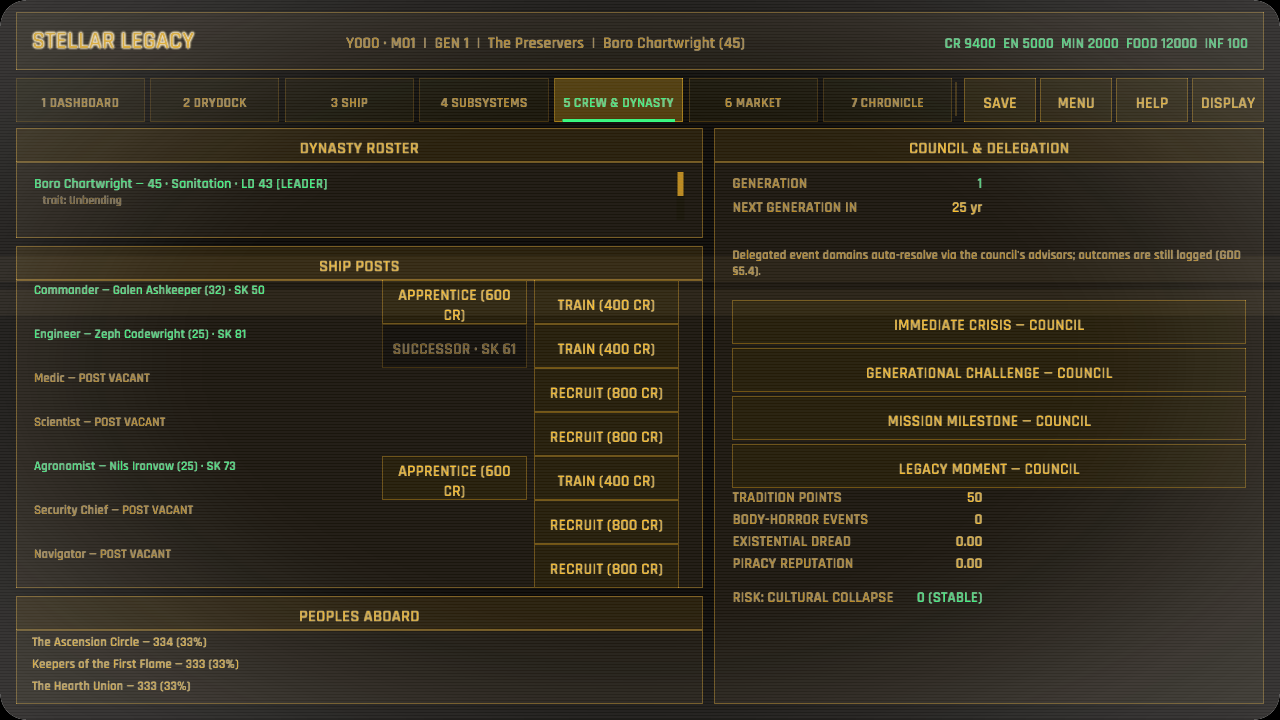
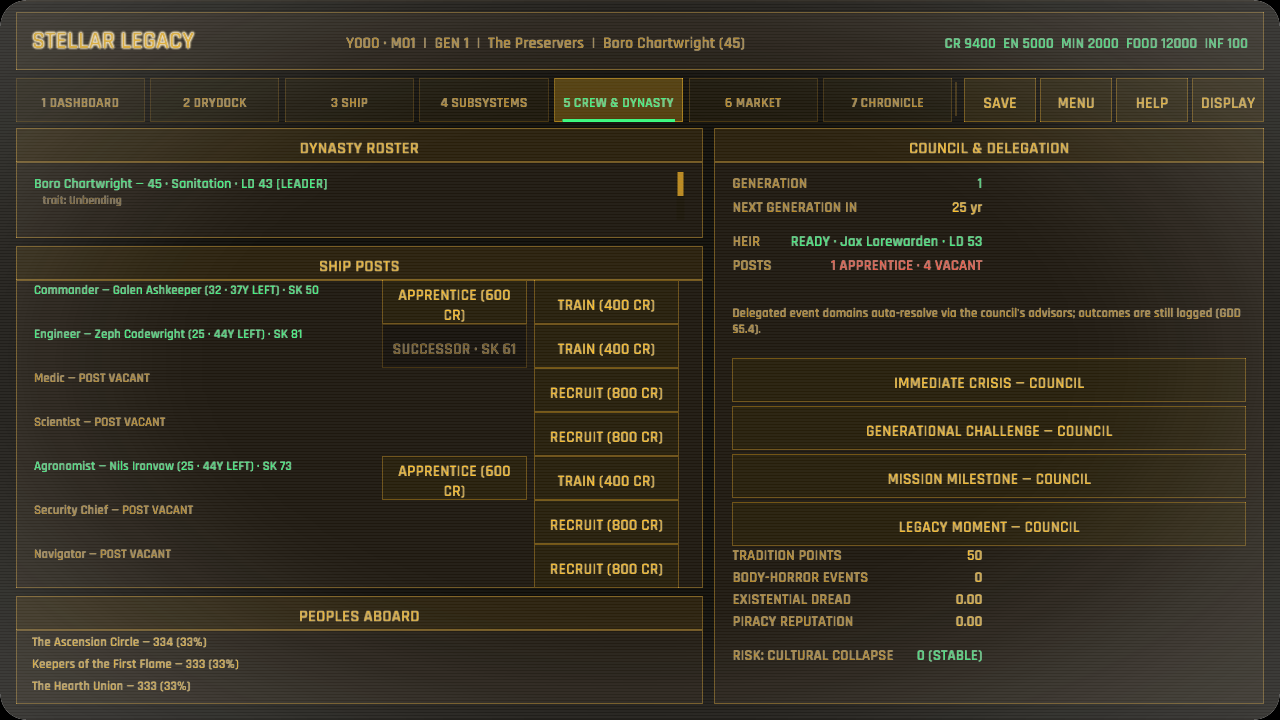
The chair passes to the heir named before it empties (succession and crew continuity)
Crew continuity was reactive: officer terms showed only age, the council did not name its next captain, and the handoff implementation cleared every leader flag before selecting a candidate, allowing a retiring captain to rank as their own successor. Succession planning now resolves while the outgoing captain is still identifiable and is shared by the council forecast and handoff. The crew screen reports the ready or designated heir, apprentices, vacancies, and years left in each held post. Regression tests cover designation, ineligible designates, best eligible selection, and the no-self-succession invariant; the crew capture was refreshed.

diff --git a/src/ui/crew_dynasty.rs b/src/ui/crew_dynasty.rs
@@ -4,6 +4,7 @@
 use crate::data::events::EventCategory;
 use crate::simulation::crew::post_holder;
 use crate::simulation::legacy::failure_risk;
+use crate::simulation::succession::planned_heir;
 use crate::ui::{stat_line, term, term_button, term_panel, GameplayCtx, UiAction};
 use macroquad::prelude::*;
 use macroquad_toolkit::prelude::*;
@@ -238,14 +239,26 @@ fn draw_posts(ctx: &GameplayCtx<'_>, rect: Rect, pointer: Pointer, actions: &mut
     for archetype in &ctx.data.crew_archetypes {
         match post_holder(ctx.sim, &archetype.id) {
             Some(holder) => {
+                let years_left = crew_cfg
+                    .retirement_age
+                    .saturating_sub(holder.age)
+                    .saturating_add(1);
                 draw_ui_text_ex(
                     &format!(
-                        "{} — {} ({}) · SK {}",
-                        archetype.name, holder.name, holder.age, holder.skill
+                        "{} — {} ({} · {}Y LEFT) · SK {}",
+                        archetype.name, holder.name, holder.age, years_left, holder.skill
                     ),
                     content.x,
                     y,
-                    TextStyle::new(13.0, term::accent()).params(),
+                    TextStyle::new(
+                        13.0,
+                        if years_left <= 5 {
+                            term::alert()
+                        } else {
+                            term::accent()
+                        },
+                    )
+                    .params(),
                 );
                 let maxed = holder.skill >= archetype.skill_max;
                 let apprentice = ctx
@@ -323,6 +336,54 @@ fn draw_council(ctx: &GameplayCtx<'_>, rect: Rect, pointer: Pointer, actions: &m
         "NEXT GENERATION IN",
         &format!("{next_gen} yr"),
         term::primary(),
+    );
+    y += 34.0;
+
+    let planned = planned_heir(&ctx.sim.dynasty, &ctx.data.config);
+    let succession = planned.map_or_else(
+        || "NO ELIGIBLE HEIR".to_owned(),
+        |member| {
+            if ctx.sim.dynasty.designated_heir == Some(member.id) {
+                format!("DESIGNATED · {} · LD {}", member.name, member.leadership)
+            } else {
+                format!("READY · {} · LD {}", member.name, member.leadership)
+            }
+        },
+    );
+    stat_line(
+        content.x,
+        y,
+        "HEIR",
+        &succession,
+        if planned.is_some() {
+            term::accent()
+        } else {
+            term::alert()
+        },
+    );
+    y += 24.0;
+    let vacant_posts = ctx
+        .data
+        .crew_archetypes
+        .iter()
+        .filter(|post| post_holder(ctx.sim, &post.id).is_none())
+        .count();
+    let apprentices = ctx.sim.apprenticeships.len();
+    let apprentice_label = if apprentices == 1 {
+        "1 APPRENTICE".to_owned()
+    } else {
+        format!("{apprentices} APPRENTICES")
+    };
+    stat_line(
+        content.x,
+        y,
+        "POSTS",
+        &format!("{apprentice_label} · {vacant_posts} VACANT",),
+        if vacant_posts > 0 {
+            term::alert()
+        } else {
+            term::primary()
+        },
     );
     y += 34.0;
 

diff --git a/src/simulation/succession.rs b/src/simulation/succession.rs
@@ -18,6 +18,30 @@ pub fn eligible_heir_exists(dynasty: &Dynasty, config: &GameConfig) -> bool {
         .any(|m| !m.is_leader && m.age >= config.heir_min_age && m.age <= config.heir_max_age)
 }
 
+/// The heir who would take the chair under an orderly handoff: the eligible
+/// council designate first, otherwise the strongest eligible dynast. This is
+/// the same plan `install_successor` follows before its emergency fallback.
+pub fn planned_heir<'a>(dynasty: &'a Dynasty, config: &GameConfig) -> Option<&'a DynastyMember> {
+    let eligible = |member: &&DynastyMember| {
+        !member.is_leader && member.age >= config.heir_min_age && member.age <= config.heir_max_age
+    };
+    dynasty
+        .designated_heir
+        .and_then(|id| {
+            dynasty
+                .members
+                .iter()
+                .find(|member| member.id == id && eligible(member))
+        })
+        .or_else(|| {
+            dynasty
+                .members
+                .iter()
+                .filter(eligible)
+                .max_by_key(|member| (member.leadership, member.id))
+        })
+}
+
 /// Install a new leader (GDD §4 Select Heir): clear the current leader, then take
 /// the council-designated heir if one is living and age-eligible, otherwise the
 /// highest-leadership member in the ideal heir band, and failing that the best of
@@ -30,6 +54,7 @@ pub fn install_successor(
     config: &GameConfig,
     year: u32,
 ) -> (Option<String>, bool) {
+    let planned_id = planned_heir(dynasty, config).map(|member| member.id);
     // A handoff starts a new reign (content-depth campaign skeleton round 19).
     dynasty.leader_reign_years = 0;
     // Close the outgoing captaincy before the seat is cleared — after the loop
@@ -39,16 +64,6 @@ pub fn install_successor(
     for member in &mut dynasty.members {
         member.is_leader = false;
     }
-    let eligible = |m: &DynastyMember| m.age >= config.heir_min_age && m.age <= config.heir_max_age;
-    let best_in_band = || {
-        dynasty
-            .members
-            .iter()
-            .enumerate()
-            .filter(|(_, m)| eligible(m))
-            .max_by_key(|(_, m)| m.leadership)
-            .map(|(i, _)| i)
-    };
     // Fallback when no one sits in the ideal band: the strongest survivor still
     // leads — an unusually young or old captain, but a captain. Ties break on id
     // so a given roster is deterministic.
@@ -60,15 +75,8 @@ pub fn install_successor(
             .max_by_key(|(_, m)| (m.leadership, m.id))
             .map(|(i, _)| i)
     };
-    let heir_index = dynasty
-        .designated_heir
-        .and_then(|id| {
-            dynasty
-                .members
-                .iter()
-                .position(|m| m.id == id && eligible(m))
-        })
-        .or_else(best_in_band)
+    let heir_index = planned_id
+        .and_then(|id| dynasty.members.iter().position(|member| member.id == id))
         .or_else(best_any);
     dynasty.designated_heir = None;
     match heir_index {

diff --git a/src/simulation/succession/tests.rs b/src/simulation/succession/tests.rs
@@ -25,6 +25,26 @@ fn a_vacated_seat_hands_off_to_the_best_eligible_heir() {
 }
 
 #[test]
+fn an_orderly_handoff_cannot_reinstall_the_outgoing_captain() {
+    let data = GameData::load().unwrap();
+    let mut sim = SimState::new_campaign(
+        &data,
+        "preservers",
+        2,
+        &crate::state::sim::founding_faction_ids(&data),
+    );
+    let outgoing = sim.dynasty.leader().unwrap().id;
+    assert!(planned_heir(&sim.dynasty, &data.config).is_some());
+
+    let year = sim.year();
+    let (new_leader, extinct) = install_successor(&mut sim.dynasty, &data.config, year);
+
+    assert!(!extinct);
+    assert!(new_leader.is_some());
+    assert_ne!(sim.dynasty.leader().unwrap().id, outgoing);
+}
+
+#[test]
 fn designated_heir_takes_precedence_over_best_leadership() {
     let data = GameData::load().unwrap();
     let mut sim = SimState::new_campaign(
@@ -51,6 +71,12 @@ fn designated_heir_takes_precedence_over_best_leadership() {
         .expect("founding dynasty has eligible members");
     sim.dynasty.designated_heir = Some(weakest);
 
+    assert_eq!(
+        planned_heir(&sim.dynasty, &data.config).map(|member| member.id),
+        Some(weakest),
+        "the visible orderly plan matches the handoff"
+    );
+
     let year = sim.year();
     let (new_leader, _) = install_successor(&mut sim.dynasty, &data.config, year);
     assert!(new_leader.is_some());
@@ -60,6 +86,32 @@ fn designated_heir_takes_precedence_over_best_leadership() {
         "the designated heir must inherit even with lower leadership"
     );
     assert!(sim.dynasty.designated_heir.is_none(), "consumed on use");
+}
+
+#[test]
+fn an_ineligible_designate_does_not_hide_the_ready_heir() {
+    let data = GameData::load().unwrap();
+    let mut sim = SimState::new_campaign(
+        &data,
+        "preservers",
+        13,
+        &crate::state::sim::founding_faction_ids(&data),
+    );
+    let too_young_id = {
+        let too_young = sim
+            .dynasty
+            .members
+            .iter_mut()
+            .find(|member| !member.is_leader)
+            .unwrap();
+        too_young.age = data.config.heir_min_age.saturating_sub(1);
+        too_young.id
+    };
+    sim.dynasty.designated_heir = Some(too_young_id);
+
+    let planned = planned_heir(&sim.dynasty, &data.config).expect("another heir is eligible");
+    assert_ne!(planned.id, too_young_id);
+    assert!(planned.age >= data.config.heir_min_age);
 }
 
 #[test]
